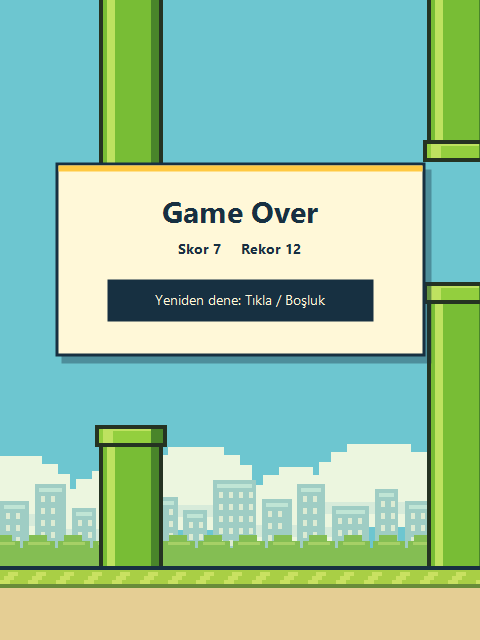
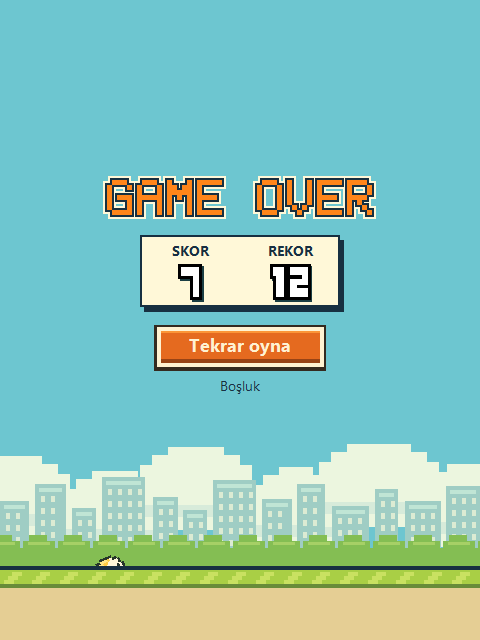
docs: update the game over screenshot and controls

diff --git a/README.md b/README.md
@@ -20,7 +20,8 @@ dotnet run --project FlappyBird/FlappyBird.csproj
 
 ## Kontroller ve oyun kuralları
 
-- **Boşluk / Sol tık:** Oyunu başlatır veya kuşu yukarı iter. Game Over ekranında yeni turu başlatır. Fareyle oynamak için oyun alanına tıklayın.
+- **Boşluk / Sol tık:** Oyunu başlatır veya kuşu yukarı iter. Fareyle oynamak için oyun alanına tıklayın.
+- **Tekrar oyna:** Game Over ekranı tur skorunu ve rekoru gösterir. Yeni tur için turuncu düğmeye veya oyun alanına tıklayın ya da Boşluk tuşuna basın.
 - İki boru çifti sağdan sola ilerler. Boru açıklığı 120 oyun pikselidir. Açıklığın dikey konumu ve boru çiftleri arasındaki yatay mesafe rastgele belirlenir. Ekrandan çıkan çift sağda yeni bir konumda belirir.
 - **Esc / Duraklatma düğmesi:** Aktif turu duraklatır veya kaldığı yerden sürdürür. Sol üstteki turuncu düğme fareyle aynı işlevi görür. Menüdeki **Devam et** turu sürdürür, **Yeni oyun** ise skoru sıfırlayıp başlangıç ekranına döner.
 
@@ -48,4 +49,4 @@ Pencere oyun alanının 3:4 oranını koruyarak kenardan veya köşeden yeniden 
 
 **Çarpışma sonrası**
 
-![Tur skoru, rekor ve yeniden deneme ipucu](docs/screenshots/game-over.png)
+![Game Over başlığı, skor ve rekor paneli ile turuncu Tekrar oyna düğmesi](docs/screenshots/game-over.png)
